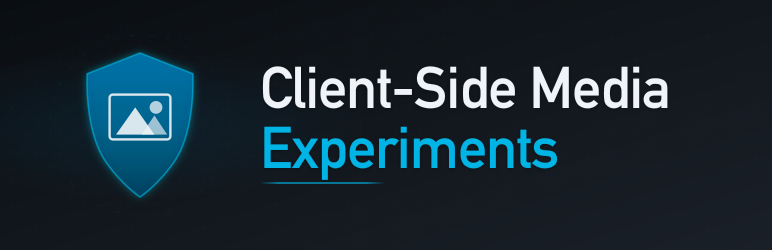
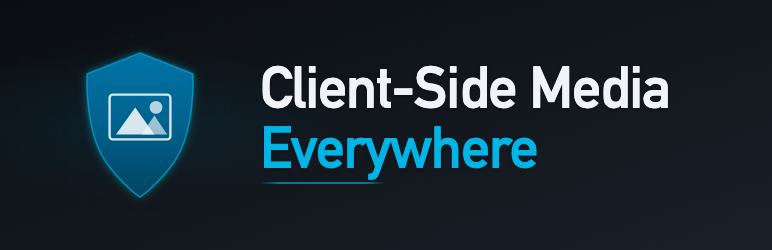
Merge pull request #43 from adamsilverstein/rename/client-side-media-everywhere
Rename plugin to Client-Side Media Everywhere

Pull request: Rename plugin to Client-Side Media Everywhere
## What

Renames the plugin from **Client-Side Media Experiments** to **Client-Side Media Everywhere**, matching the already-renamed GitHub repository.

## Why

The plugin's sole job today is enabling the WordPress client-side media processing feature on Firefox and Safari (browsers without Document-Isolation-Policy support). "Experiments" no longer described it, and the old name was easily confused with the separate Media Experiments plugin.

The new name keeps the same initials, so every `csme_` function, `csme_use_coep_coop` filter, and `CSME_*` constant is unchanged - no code behavior changes at all.

## Changes

- Plugin name, text domain, and slug: `client-side-media-experiments` -> `client-side-media-everywhere` across the plugin header, readme.txt, README.md, composer.json, package.json, phpcs/phpstan/phpunit configs, build script, deploy workflow SLUG, and the JS embed-preview filter namespace.
- Main plugin file renamed `client-side-media-experiments.php` -> `client-side-media-everywhere.php`.
- `@user` tag: `ClientSideMediaExperiments` -> `ClientSideMediaEverywhere`.
- WordPress.org banner SVGs updated and PNGs regenerated.
- Changelog entry added under Unreleased.

## Verification

- PHPCS: clean (text-domain sniff now checks the new domain)
- PHPStan level 5: clean
- PHPUnit: 38/41 pass locally; the 3 failures are the known pre-existing `headers_list()` CLI limitation and pass in CI
- `grep -ri experiment` across the repo returns no plugin-related matches
[…]

Changed region(s): [[0.342, 0.252, 0.8705, 0.448], [0.342, 0.504, 0.7461, 0.728], [0.342, 0.504, 0.3731, 0.532]]

diff --git a/tests/e2e/specs/cross-origin-isolation.spec.ts b/tests/e2e/specs/cross-origin-isolation.spec.ts
@@ -373,40 +373,6 @@ test.describe( 'Cross-Origin Isolation', () => {
 		} );
 	} );
 
-	test( 'should not send isolation headers when disabled in settings', async ( {
-		admin,
-		page,
-		browserName,
-	} ) => {
-		test.skip(
-			browserName === 'chromium',
-			'Chromium never receives COEP/COOP headers from the plugin'
-		);
-
-		// Disable the plugin via its Settings > Media checkbox.
-		await admin.visitAdminPage( 'options-media.php' );
-		await page.locator( '#csme_enabled' ).uncheck();
-		await page.locator( '#submit' ).click();
-		await page.waitForSelector( '#csme_enabled' );
-
-		try {
-			const response = await page.goto( '/wp-admin/post-new.php' );
-			expect( response ).not.toBeNull();
-			const headers = response!.headers();
-
-			expect( headers[ 'cross-origin-opener-policy' ] ).toBeUndefined();
-			expect(
-				headers[ 'cross-origin-embedder-policy' ]
-			).toBeUndefined();
-		} finally {
-			// Restore the setting for subsequent tests.
-			await admin.visitAdminPage( 'options-media.php' );
-			await page.locator( '#csme_enabled' ).check();
-			await page.locator( '#submit' ).click();
-			await page.waitForSelector( '#csme_enabled' );
-		}
-	} );
-
 	test( 'should add credentialless attribute to iframes', async ( {
 		admin,
 		page,

diff --git a/js/cross-origin-isolation-coep.js b/js/cross-origin-isolation-coep.js
@@ -211,7 +211,7 @@
 
 		wp.hooks.addFilter(
 			'editor.BlockEdit',
-			'client-side-media-experiments/disable-embed-previews',
+			'client-side-media-everywhere/disable-embed-previews',
 			disableEmbedPreviews
 		);
 	}

diff --git a/phpstan-bootstrap.php b/phpstan-bootstrap.php
@@ -2,12 +2,12 @@
 /**
  * PHPStan bootstrap file.
  *
- * Defines the plugin constants from client-side-media-experiments.php so
+ * Defines the plugin constants from client-side-media-everywhere.php so
  * PHPStan can resolve them when analyzing includes/ files independently.
  *
- * @package ClientSideMediaExperiments
+ * @package ClientSideMediaEverywhere
  */
 
 define( 'CSME_VERSION', '1.0.0' );
 define( 'CSME_PLUGIN_DIR', __DIR__ . '/' );
-define( 'CSME_PLUGIN_URL', 'https://example.com/wp-content/plugins/client-side-media-experiments/' );
+define( 'CSME_PLUGIN_URL', 'https://example.com/wp-content/plugins/client-side-media-everywhere/' );

diff --git a/tests/bootstrap.php b/tests/bootstrap.php
@@ -1,14 +1,14 @@
 <?php
 /**
- * PHPUnit bootstrap file for the Client-Side Media Experiments plugin.
+ * PHPUnit bootstrap file for the Client-Side Media Everywhere plugin.
  *
- * @package ClientSideMediaExperiments
+ * @package ClientSideMediaEverywhere
  */
 
 // Define plugin constants.
 define( 'CSME_VERSION', '0.2.0' );
 define( 'CSME_PLUGIN_DIR', dirname( __DIR__ ) . '/' );
-define( 'CSME_PLUGIN_URL', 'http://example.org/wp-content/plugins/client-side-media-experiments/' );
+define( 'CSME_PLUGIN_URL', 'http://example.org/wp-content/plugins/client-side-media-everywhere/' );
 
 // Stub the client-side media processing gate so the plugin file can load.
 function wp_is_client_side_media_processing_enabled() {

diff --git a/uninstall.php b/uninstall.php
@@ -1,10 +1,10 @@
 <?php
 /**
- * Uninstall handler for Client-Side Media Experiments.
+ * Uninstall handler for Client-Side Media Everywhere.
  *
  * Removes plugin options when the plugin is deleted.
  *
- * @package ClientSideMediaExperiments
+ * @package ClientSideMediaEverywhere
  */
 
 if ( ! defined( 'WP_UNINSTALL_PLUGIN' ) ) {

diff --git a/includes/cross-origin-isolation.php b/includes/cross-origin-isolation.php
@@ -6,7 +6,7 @@
  * do not support Document-Isolation-Policy (Firefox, Safari, and
  * Chrome < 137).
  *
- * @package ClientSideMediaExperiments
+ * @package ClientSideMediaEverywhere
  */
 
 if ( ! defined( 'ABSPATH' ) ) {

diff --git a/tests/Test_Add_Crossorigin_Attributes.php b/tests/Test_Add_Crossorigin_Attributes.php
@@ -2,7 +2,7 @@
 /**
  * Tests for csme_add_crossorigin_to_images().
  *
- * @package ClientSideMediaExperiments
+ * @package ClientSideMediaEverywhere
  */
 
 class Test_Add_Crossorigin_Attributes extends WP_UnitTestCase {

diff --git a/tests/Test_Coep_Mode.php b/tests/Test_Coep_Mode.php
@@ -2,7 +2,7 @@
 /**
  * Tests for csme_get_coep_mode().
  *
- * @package ClientSideMediaExperiments
+ * @package ClientSideMediaEverywhere
  */
 
 class Test_Coep_Mode extends WP_UnitTestCase {

diff --git a/tests/Test_Cross_Origin_Isolation.php b/tests/Test_Cross_Origin_Isolation.php
@@ -2,7 +2,7 @@
 /**
  * Tests for csme_set_up_cross_origin_isolation() guard checks.
  *
- * @package ClientSideMediaExperiments
+ * @package ClientSideMediaEverywhere
  */
 
 class Test_Cross_Origin_Isolation extends WP_UnitTestCase {

diff --git a/tests/Test_Enqueue_Scripts.php b/tests/Test_Enqueue_Scripts.php
@@ -2,7 +2,7 @@
 /**
  * Tests for csme_enqueue_scripts().
  *
- * @package ClientSideMediaExperiments
+ * @package ClientSideMediaEverywhere
  */
 
 class Test_Enqueue_Scripts extends WP_UnitTestCase {

diff --git a/tests/Test_Output_Buffer.php b/tests/Test_Output_Buffer.php
@@ -2,7 +2,7 @@
 /**
  * Tests for csme_start_coep_coop_output_buffer() header output.
  *
- * @package ClientSideMediaExperiments
+ * @package ClientSideMediaEverywhere
  */
 
 /**

diff --git a/tests/Test_Should_Use_Coep_Coop.php b/tests/Test_Should_Use_Coep_Coop.php
@@ -2,7 +2,7 @@
 /**
  * Tests for csme_should_use_coep_coop().
  *
- * @package ClientSideMediaExperiments
+ * @package ClientSideMediaEverywhere
  */
 
 /**